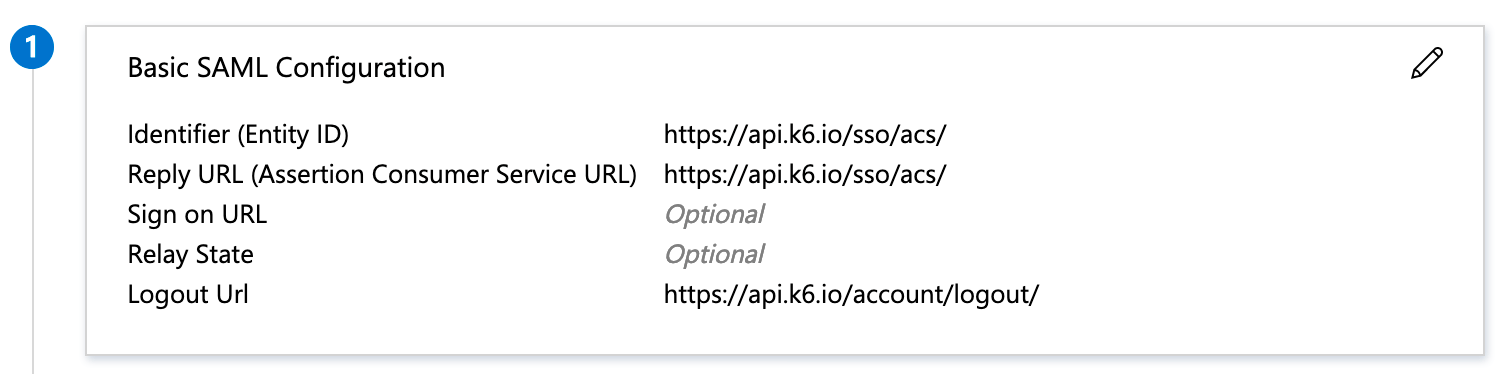
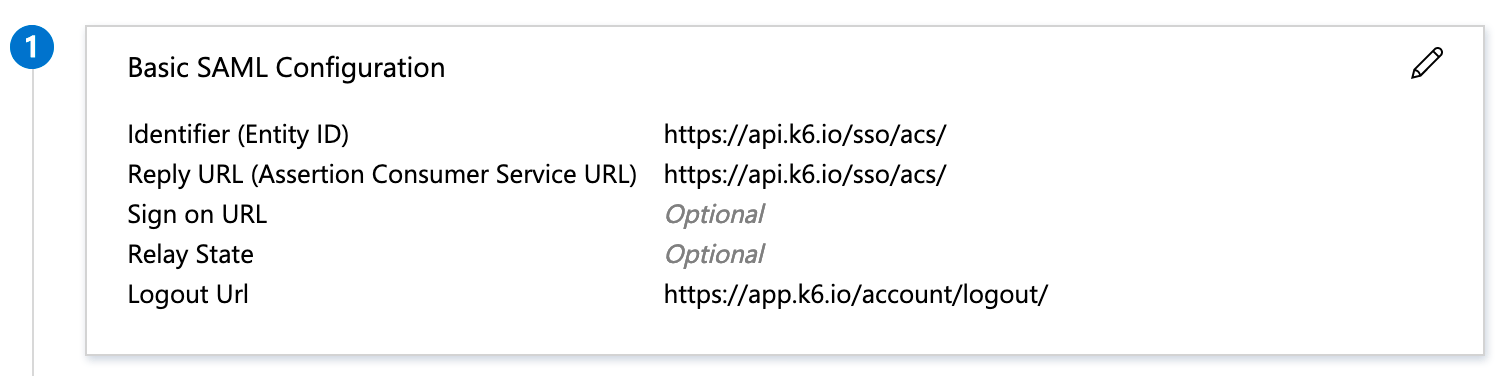
[fix] PR feedback

diff --git a/src/data/markdown/docs/03 cloud/04 Project and Team Management/04 Azure AD SAML SSO.md b/src/data/markdown/docs/03 cloud/04 Project and Team Management/04 Azure AD SAML SSO.md
@@ -3,12 +3,22 @@ title: 'Azure AD SAML SSO'
 excerpt: 'Guide on setting up Azure AD to act as a SAML SSO IdP with k6 Cloud'
 ---
 
-<div class="doc-blockquote" data-props='{"mod": "warning"}'>
+## Background
 
-> <b>This feature requires the SAML SSO addon or an Enterprise plan</b><br>
-> To setup SAML SSO based authentication to k6 Cloud you must have a Team plan or above and the SAML SSO addon, alternatively be on an Enterprise plan. You must also have an Azure AD Premium Subscription.
+Federated authentication is a must to virtually all organizations beyond a certain size. Microsoft's Active Directory product has been a long time gold standard for managing an enterprise's users and their access permissions, and Azure Active Directory is its direct cloud counterpart. k6 Cloud intergrates with Azure AD to provide organizations with a compliant way to handle on- and offboarding of team members to the service.
 
-</div>
+## What is SAML?
+
+Security Assertion Markup Language (SAML) is an open standard for exchanging authentication and authorization data between parties, in particular, between an Identity Provider (eg. Azure AD) and a Service Provider (eg. k6 Cloud). SAML is an XML-based markup language for security assertions (statements that service providers use to make access-control decisions).
+
+Read more over at [WikiPedia](https://en.wikipedia.org/wiki/Security_Assertion_Markup_Language).
+
+## Prerequisites
+
+To setup Azure AD SAML SSO based authentication to k6 Cloud you must have:
+
+1. A [Team plan](/pricing) or above and the SAML SSO addon, alternatively be on an Enterprise plan.
+2. An [Azure AD Premium Subscription](https://azure.microsoft.com/en-us/pricing/details/active-directory/).
 
 ## Configuration
 
@@ -55,7 +65,7 @@ excerpt: 'Guide on setting up Azure AD to act as a SAML SSO IdP with k6 Cloud'
     | ------------------------------------------ | ----------------------------------- |
     | Identifier (Entity ID)                     | `https://api.k6.io/sso/acs/`        |
     | Reply URL (Assertion Consumer Service URL) | `https://api.k6.io/sso/acs/`        |
-    | Logout Url                                 | `https://api.k6.io/account/logout/` |
+    | Logout Url                                 | `https://app.k6.io/account/logout` |
 
     Resulting in:
 
@@ -85,3 +95,14 @@ excerpt: 'Guide on setting up Azure AD to act as a SAML SSO IdP with k6 Cloud'
 12. Copy the "App Federation Metadata Url" and send it to k6 Cloud support for completion of the setup.
 
     ![Azure AD SAML Signing Certificate](images/04 Azure AD SAML SSO/azure-ad-setup-saml-signing-cert.png)
+<br><br>
+
+13. Once you've gotten confirmation from k6 Cloud support that your account is ready we advise you to test the integration by clicking the "Test" button in Azure AD:
+
+    ![Azure AD Test SSO](images/04 Azure AD SAML SSO/azure-ad-test-sso.png)
+
+## Setting up access to projects
+
+With a completed integration between k6 Cloud and Azure AD your team members can Single Sign On to k6 Cloud via the Azure Portal. The next step is to setup project access permissions for team members in k6 Cloud, this doesn't happen automatically as part of account provisioning.
+
+See our docs on [adding team members](/cloud/project-and-team-management/team-members#adding-team-members) for more information on how to setup access permissions to projects for team members.
